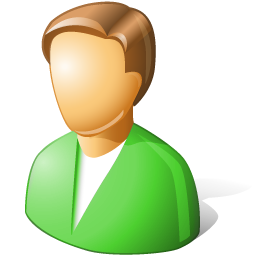
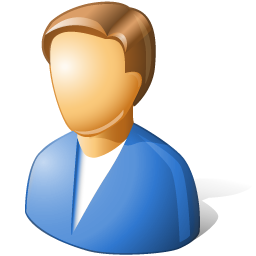
New information for hub
- Displays the amount of ArpmanetDC users
- ArpmanetDC users now have a different icon
- Client name and version are now saved in the userlist
- Expanding user list row height bug fixed

Changed region(s): [[0.0938, 0.4688, 0.7812, 1.0]]

diff --git a/arpmanetdc.cpp b/arpmanetdc.cpp
@@ -77,7 +77,7 @@ ArpmanetDC::ArpmanetDC(QWidget *parent, Qt::WFlags flags)
 
     //Connect HubConnection to GUI
 	connect(pHub, SIGNAL(receivedChatMessage(QString)), this, SLOT(appendChatLine(QString)));
-	connect(pHub, SIGNAL(receivedMyINFO(QString, QString, QString)), this, SLOT(userListInfoReceived(QString, QString, QString)));
+	connect(pHub, SIGNAL(receivedMyINFO(QString, QString, QString, QString, QString)), this, SLOT(userListInfoReceived(QString, QString, QString, QString, QString)));
 	connect(pHub, SIGNAL(receivedNickList(QStringList)), this, SLOT(userListNickListReceived(QStringList)));
 	connect(pHub, SIGNAL(userLoggedOut(QString)), this, SLOT(userListUserLoggedOut(QString)));	
 	connect(pHub, SIGNAL(receivedPrivateMessage(QString, QString)), this, SLOT(receivedPrivateMessage(QString, QString)));
@@ -301,6 +301,8 @@ ArpmanetDC::ArpmanetDC(QWidget *parent, Qt::WFlags flags)
 	//Icon generation
 	userIcon = new QPixmap();
 	*userIcon = QPixmap(":/ArpmanetDC/Resources/UserIcon.png").scaled(16,16, Qt::IgnoreAspectRatio, Qt::SmoothTransformation);
+    arpmanetUserIcon = new QPixmap();
+	*arpmanetUserIcon = QPixmap(":/ArpmanetDC/Resources/ArpmanetUserIcon.png").scaled(16,16, Qt::IgnoreAspectRatio, Qt::SmoothTransformation);
 	userFirewallIcon = new QPixmap();
 	*userFirewallIcon = QPixmap(":/ArpmanetDC/Resources/FirewallIcon.png").scaled(16,16, Qt::IgnoreAspectRatio, Qt::SmoothTransformation);
     fullyBootstrappedIcon = new QPixmap();
@@ -599,12 +601,14 @@ void ArpmanetDC::createWidgets()
 	
 	//===== User list =====
 	//Model
-	userListModel = new QStandardItemModel(0,5);
+	userListModel = new QStandardItemModel(0,6);
 	userListModel->setHeaderData(0, Qt::Horizontal, tr("Nickname"));
 	userListModel->setHeaderData(1, Qt::Horizontal, tr("Description"));
 	userListModel->setHeaderData(2, Qt::Horizontal, tr("Nickname"));
 	userListModel->setHeaderData(3, Qt::Horizontal, tr("Description"));
 	userListModel->setHeaderData(4, Qt::Horizontal, tr("Mode"));
+    userListModel->setHeaderData(5, Qt::Horizontal, tr("Client"));
+    userListModel->setHeaderData(6, Qt::Horizontal, tr("Version"));
 
 	userSortProxy = new QSortFilterProxyModel(this);
 	userSortProxy->setSortCaseSensitivity(Qt::CaseInsensitive);
@@ -1396,7 +1400,7 @@ void ArpmanetDC::sortUserList()
 	if (sortDue)
 	{
 		userSortProxy->sort(2, Qt::AscendingOrder);
-        //resizeRowsToContents(userListTable);
+        resizeRowsToContents(userListTable);
 		sortDue = false;
 	}
 }
@@ -1413,7 +1417,7 @@ void ArpmanetDC::calculateHashRate()
     shareSizeLabel->setToolTip(tr("Hashing speed:\n%1\n%2").arg(rateMB).arg(rateFiles));
 }
 
-void ArpmanetDC::userListInfoReceived(QString nick, QString desc, QString mode)
+void ArpmanetDC::userListInfoReceived(QString nick, QString desc, QString mode, QString client, QString version)
 {
 	//Don't add empty nicknames
 	if (nick.isEmpty())
@@ -1438,10 +1442,16 @@ void ArpmanetDC::userListInfoReceived(QString nick, QString desc, QString mode)
 			item->setText(tr("<font size=\"2\">%1</font>").arg(nick));
 			item->setIcon(QIcon(*userFirewallIcon));
 		}
+		else if (client.compare("ArpmanetDC") == 0)
+		{
+			//Active user - ArpmanetDC
+			item->setText(tr("<font size=\"2\">%1</font>").arg(nick));
+			item->setIcon(QIcon(*arpmanetUserIcon));
+		}
 		else
 		{
-			//Active user
-			item->setText(tr("<font size=\"2\">%1</font>").arg(nick));
+			//Active user - other client
+            item->setText(tr("<font size=\"2\">%1</font>").arg(nick));
 			item->setIcon(QIcon(*userIcon));
 		}
 		
@@ -1457,12 +1467,14 @@ void ArpmanetDC::userListInfoReceived(QString nick, QString desc, QString mode)
 		userListModel->setItem(userListModel->rowCount()-1, 2, new QStandardItem(nick));
 		userListModel->setItem(userListModel->rowCount()-1, 3, new QStandardItem(desc));
 		userListModel->setItem(userListModel->rowCount()-1, 4, new QStandardItem(mode));
+        userListModel->setItem(userListModel->rowCount()-1, 5, new QStandardItem(client));
+        userListModel->setItem(userListModel->rowCount()-1, 6, new QStandardItem(version));
 		
 		//Signal for sorting
 		sortDue = true;
 
 		//Update user count
-		userHubCountLabel->setText(tr("Hub Users: %1").arg(userListModel->rowCount()));		
+		userHubCountLabel->setText(tr("Hub Users: %1/%2").arg(userListModel->findItems("ArpmanetDC", Qt::MatchExactly, 5).count()).arg(userListModel->rowCount()));		
 	}
 	//Present - edit existing
 	else
@@ -1494,6 +1506,12 @@ void ArpmanetDC::userListInfoReceived(QString nick, QString desc, QString mode)
 
 		if (!mode.isEmpty())
 			userListModel->item(foundIndex, 4)->setText(mode);
+
+        if (!client.isEmpty())
+            userListModel->item(foundIndex, 5)->setText(client);
+
+        if (!version.isEmpty())
+            userListModel->item(foundIndex, 6)->setText(version);
 		
 		//Signal for sorting
 		sortDue = true;
@@ -1515,14 +1533,14 @@ void ArpmanetDC::userListUserLoggedOut(QString nick)
 		additionalInfoLabel->setText(tr("User not in list: %1").arg(nick));
 
 	//Update user count
-	userHubCountLabel->setText(tr("Hub Users: %1").arg(userListModel->rowCount()));
+	userHubCountLabel->setText(tr("Hub Users: %1/%2").arg(userListModel->findItems("ArpmanetDC", Qt::MatchExactly, 5).count()).arg(userListModel->rowCount()));
 }
 
 void ArpmanetDC::userListNickListReceived(QStringList list)
 {
 	//Add/update user list for every nick in nickList
 	foreach (QString nick, list)
-		userListInfoReceived(nick, "", "");
+		userListInfoReceived(nick, "", "", "", "");
 }
 
 void ArpmanetDC::hubOffline()

diff --git a/hubconnection.cpp b/hubconnection.cpp
@@ -184,9 +184,15 @@ void HubConnection::processHubMessage()
                     QString nickname = msg.mid(13, pos1 - 13);
                     int pos2 = msg.indexOf("<", pos1 + 1);
                     QString description = msg.mid(pos1 + 1, pos2 - pos1 - 1);
+
+					pos1 = msg.indexOf("V:", pos2 + 1);
+					QString client = msg.mid(pos2 + 1, pos1 - pos2 - 2);
+                    
+                    QString version = msg.mid(pos1 + 2, msg.indexOf("M:", pos2 + 1) - pos1 - 2);
+
                     pos1 = msg.indexOf("M:", pos2 + 1);
                     QString mode = msg.mid(pos1 + 2, 1);
-                    emit receivedMyINFO(nickname, description, mode);
+                    emit receivedMyINFO(nickname, description, mode, client, version);
                 }
 
 				//===== USER LEFT =====

diff --git a/arpmanetdc.h b/arpmanetdc.h
@@ -145,7 +145,7 @@ private slots:
 
 	//Hub Connection slots
 	void appendChatLine(QString msg);
-	void userListInfoReceived(QString nick, QString desc, QString mode);
+	void userListInfoReceived(QString nick, QString desc, QString mode, QString client, QString version);
 	void userListUserLoggedOut(QString nick);
 	void userListNickListReceived(QStringList list);
 	void hubOnline();
@@ -304,7 +304,7 @@ private:
 	quint32 mainChatBlocks;
 
 	//User list icons
-	QPixmap *userIcon, *userFirewallIcon, *bootstrappedIcon, *unbootstrappedIcon, *fullyBootstrappedIcon;
+	QPixmap *userIcon, *arpmanetUserIcon, *userFirewallIcon, *bootstrappedIcon, *unbootstrappedIcon, *fullyBootstrappedIcon;
 
     //Menus
     QMenu *userListMenu;

diff --git a/hubconnection.h b/hubconnection.h
@@ -49,7 +49,7 @@ signals:
     void userLoggedOut(QString nick);
     void receivedNickList(QStringList nickList);
     void receivedOpList(QStringList opList);
-    void receivedMyINFO(QString nick, QString description, QString mode);
+    void receivedMyINFO(QString nick, QString description, QString mode, QString client, QString version);
 
 	//Emitted once when hub goes offline
 	void hubOffline();

diff --git a/util.cpp b/util.cpp
@@ -173,6 +173,7 @@ void resizeRowsToContents(QTableView *tableView)
     if (!tableView)
         return;
 
+	tableView->setRowHeight(0, 10);
     tableView->resizeRowToContents(0);
     for (int i = 1; i < tableView->model()->rowCount(); i++)
         tableView->setRowHeight(i, tableView->rowHeight(0));
